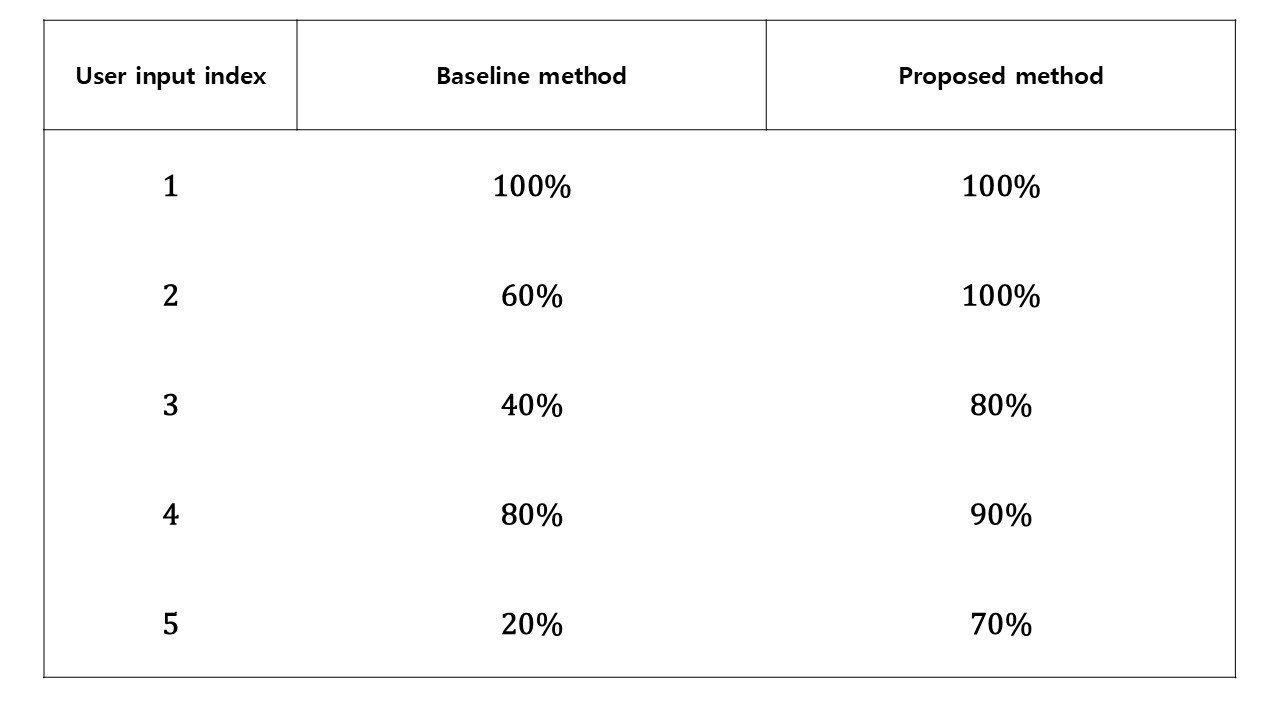
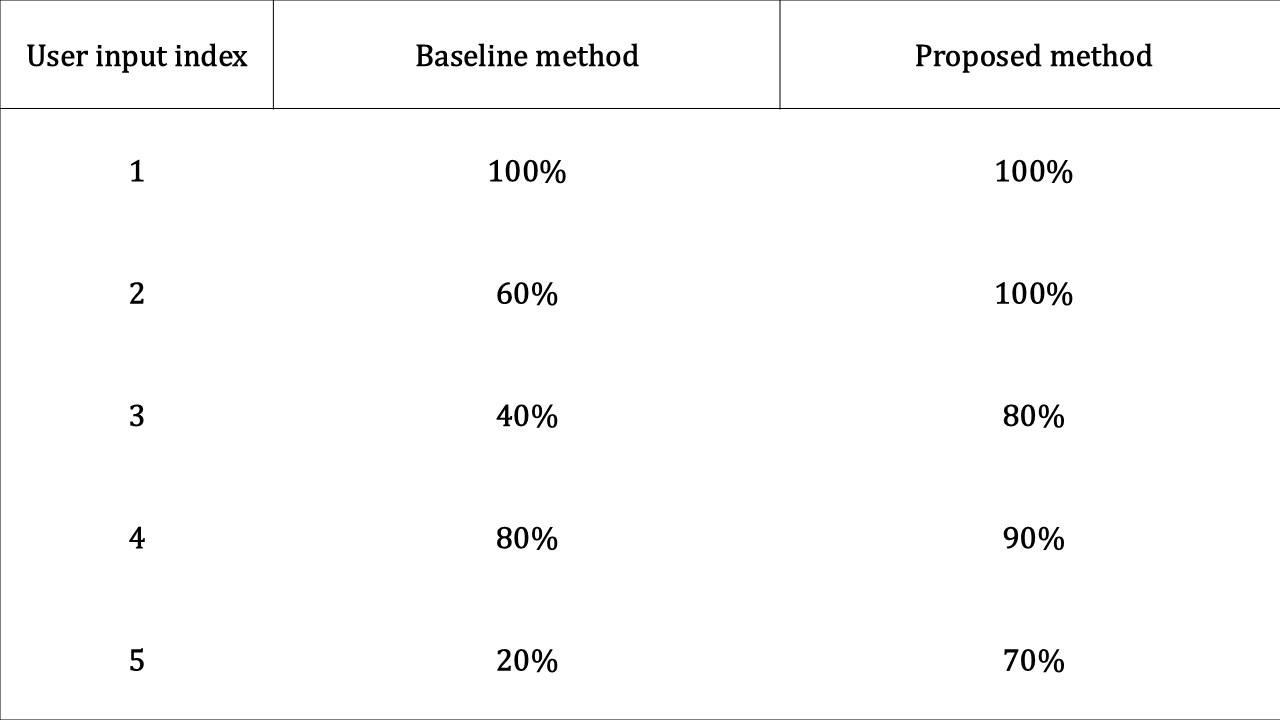
.

diff --git a/projects/project1_LLM_controlled_robot.md b/projects/project1_LLM_controlled_robot.md
@@ -84,7 +84,7 @@ By combining these techniques, the system executes a wide range of commands (fro
 {% include project-media.html
    type="image"
    src="experimental_setup.jpg"
-   caption="The experiments used the hardware shown in the image and the GPT API in Python as the LLM."
+   caption="The experiments used the hardware shown in the image and the GPT API in Python as the LLM. and used Ubuntu"
    size="large"
 %}
 
@@ -217,6 +217,8 @@ To evaluate our proposed side point-cloud interpolation method, we compared the 
   {% include project-media.html type="image" src="colli_eval_input.jpg" caption="Fig. 19  Pointcloud input on Baseline and proposed method and example of grasp points" muted=true autoplay=true loop=true%}
   {% include project-media.html type="image" src="colli_eval_res.jpg" caption="Fig. 20. Comparison between the baseline and the proposed method result" muted=true autoplay=true loop=true%}
 </div>
+
+
 
 ## Limitation and future work
 
